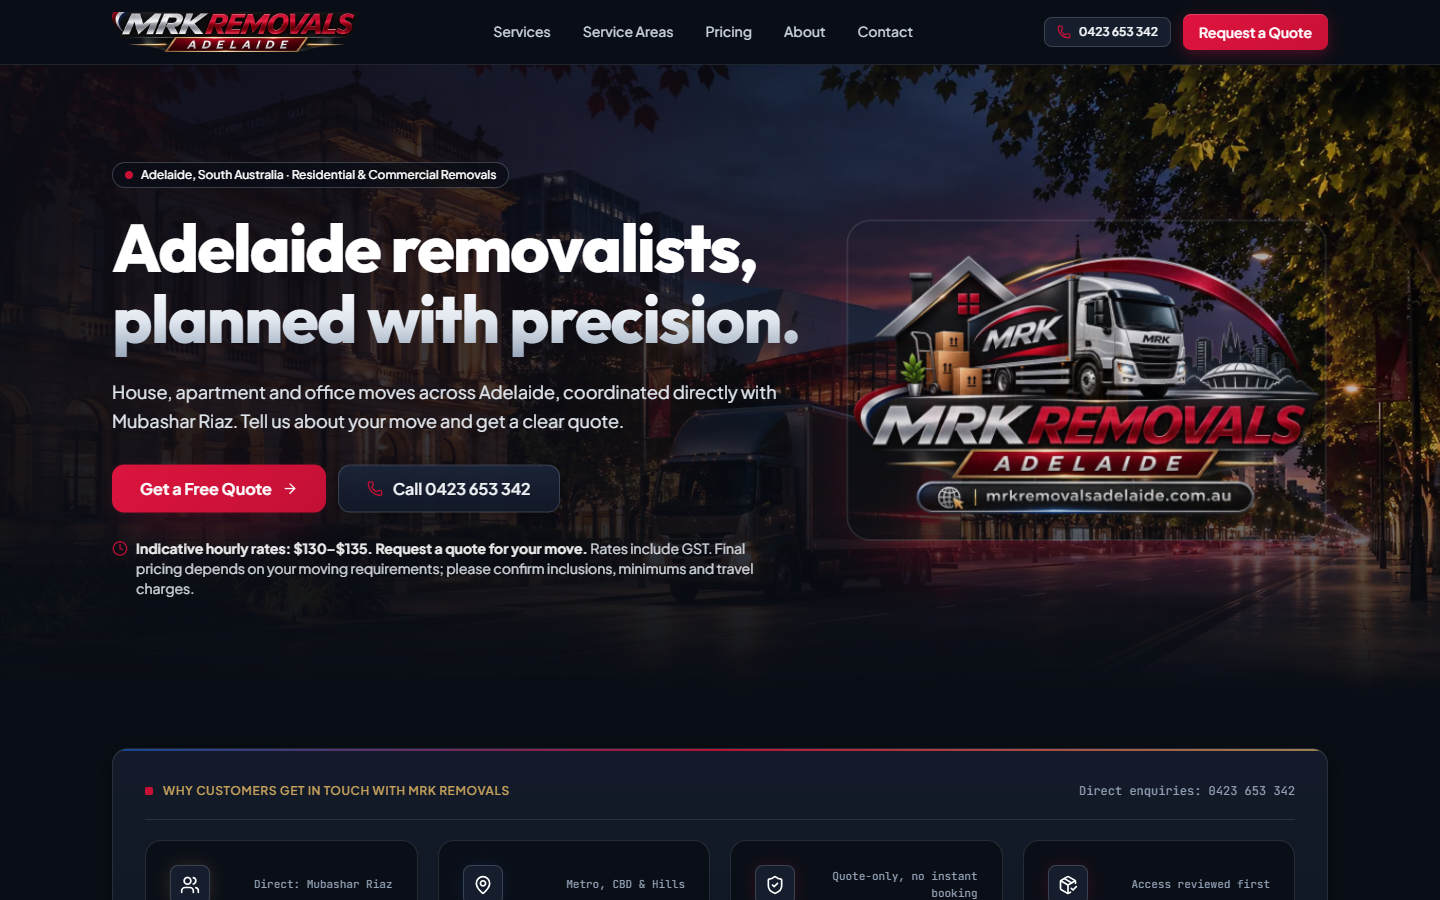
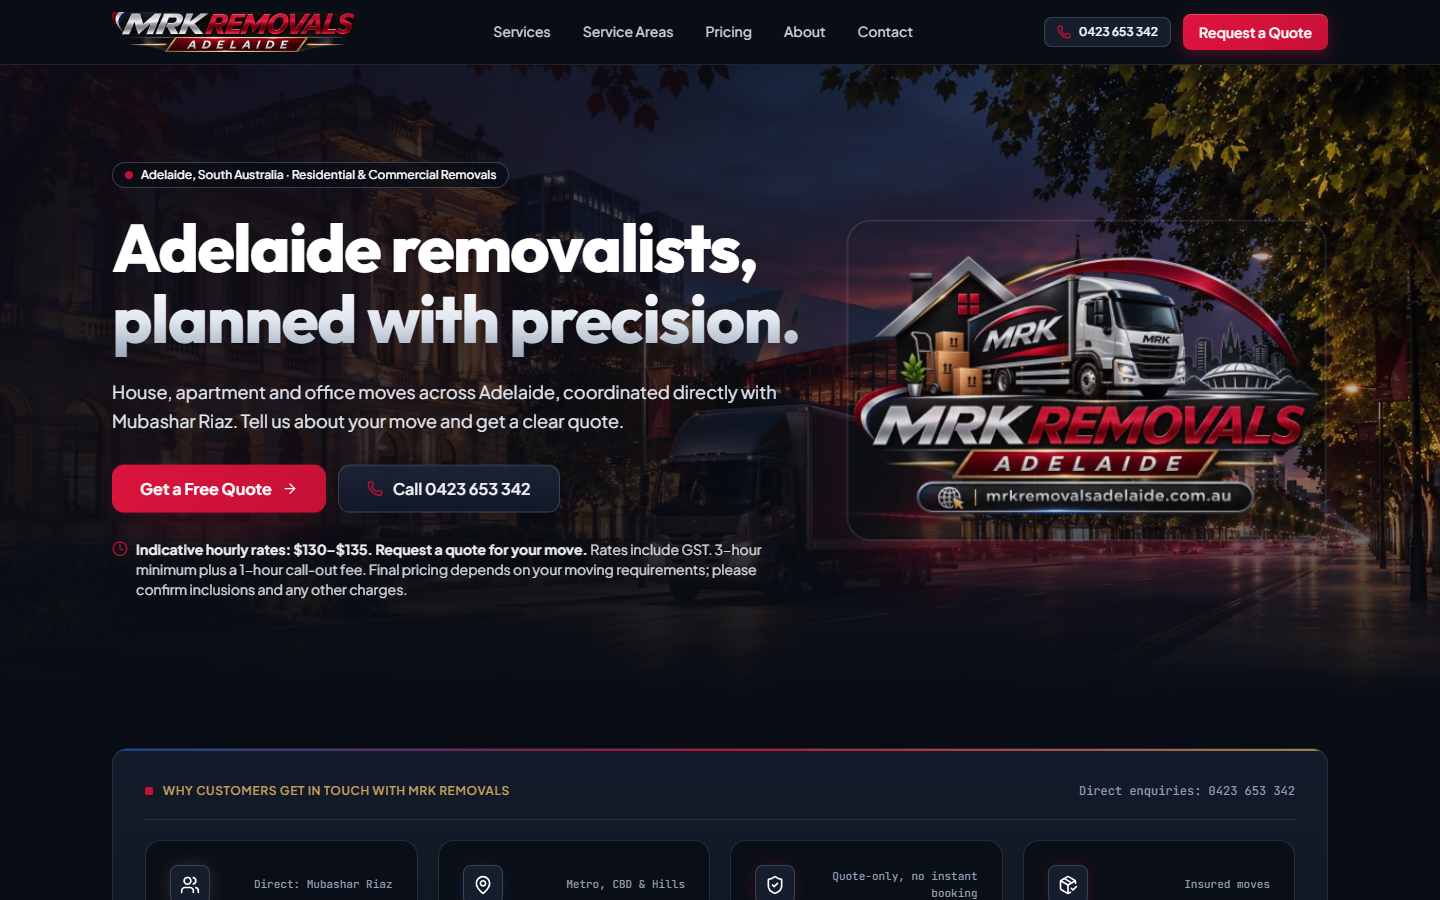
feat(content): publish 3-hour minimum, 1-hour call-out fee and \ insurance; remove image captions
Owner-confirmed terms replace the unconfirmed placeholders across disclaimer, FAQs, services, pricing, trust pillars and the quote brief. Insurance is published only as the coverage amount. Image captions removed.

Changed region(s): [[0.0938, 0.5911, 0.5312, 0.6844], [0.7812, 0.9644, 0.8438, 0.9956]]

diff --git a/src/pages/HomePage.tsx b/src/pages/HomePage.tsx
@@ -49,7 +49,7 @@ const PROCESS_STEPS = [
   {
     num: '03',
     title: 'Confirm scope & rate',
-    body: 'Inclusions, minimum hours and travel charges are confirmed in your quote. The hourly rate includes GST.',
+    body: 'Inclusions and any other charges are confirmed in your quote. The hourly rate includes GST, with a 3-hour minimum plus a 1-hour call-out fee.',
   },
   {
     num: '04',
@@ -88,7 +88,7 @@ export const HomePage: React.FC<HomePageProps> = ({ onNavigate }) => {
       <section className="relative isolate overflow-hidden" aria-labelledby="hero-heading">
         <ResponsiveImage
           src={mrkBusiness.photographyAssets.adelaideSkylineTwilight}
-          alt="Illustrative image of a moving truck on an Adelaide boulevard at dusk"
+          alt="MRK moving truck on an Adelaide boulevard at dusk"
           priority
           sizes="100vw"
           width={1914}
@@ -278,8 +278,8 @@ export const HomePage: React.FC<HomePageProps> = ({ onNavigate }) => {
               {[
                 'Truck size & crew numbers',
                 'What the hourly rate includes',
-                'Minimum booking hours',
-                'Travel / call-out charges',
+                '3-hour minimum booking',
+                '1-hour call-out fee',
                 'Rate includes GST',
                 'Stairs & heavy-item handling',
               ].map((item) => (
@@ -300,28 +300,22 @@ export const HomePage: React.FC<HomePageProps> = ({ onNavigate }) => {
             <figure className="mrk-photo-zoom col-span-2 relative rounded-2xl overflow-hidden border border-[#C9D2DC]/20">
               <ResponsiveImage
                 src={mrkBusiness.photographyAssets.professionalWrapping}
-                alt="Illustrative image of a crew wrapping furniture in moving blankets"
+                alt="Crew wrapping furniture in moving blankets"
                 sizes="(min-width: 1024px) 40vw, 100vw"
                 width={1448}
                 height={1086}
                 className="w-full h-52 sm:h-64 object-cover"
               />
-              <figcaption className="absolute bottom-0 inset-x-0 px-3 py-1.5 text-[11px] text-[#C9D2DC] bg-[#090D15]/80">
-                Illustrative image
-              </figcaption>
             </figure>
             <figure className="mrk-photo-zoom col-span-2 relative rounded-2xl overflow-hidden border border-[#C9D2DC]/20">
               <ResponsiveImage
                 src={mrkBusiness.photographyAssets.apartmentRelocation}
-                alt="Illustrative image of a mover carrying a blanket-wrapped armchair through an apartment lobby"
+                alt="Mover carrying a blanket-wrapped armchair through an apartment lobby"
                 sizes="(min-width: 1024px) 40vw, 100vw"
                 width={1086}
                 height={1448}
                 className="w-full h-52 sm:h-64 object-cover object-[50%_30%]"
               />
-              <figcaption className="absolute bottom-0 inset-x-0 px-3 py-1.5 text-[11px] text-[#C9D2DC] bg-[#090D15]/80">
-                Illustrative image
-              </figcaption>
             </figure>
           </div>
           <div className="lg:col-span-7 space-y-5">

diff --git a/src/content/services.ts b/src/content/services.ts
@@ -72,7 +72,7 @@ export const MRK_SERVICES: ServiceItem[] = [
     whatToConfirmWithUs: [
       'Exact pickup and delivery suburbs and whether settlement times constrain keys handover.',
       'Rough inventory of major furniture pieces (e.g., king beds, double-door fridges, outdoor spas or gym gear).',
-      'Applicable hourly rate ($130–$135/hr indicative range), crew allocation, minimum booking hours, and travel terms (rate includes GST).',
+      'Applicable hourly rate ($130–$135/hr indicative range), crew allocation, and the 3-hour minimum plus 1-hour call-out fee (rate includes GST).',
     ],
     adelaideLogisticsNote:
       'In established Adelaide suburbs with narrow heritage streets or timed school-zone clearways, early morning positioning helps keep truck loading smooth and uninterrupted.',
@@ -139,7 +139,7 @@ export const MRK_SERVICES: ServiceItem[] = [
     whatToConfirmWithUs: [
       'Exact lift booking start and finish times at both pickup and destination buildings.',
       'Maximum height clearance if the loading zone is covered or inside a podium level.',
-      'Hourly rate inclusions, minimum duration, and any parking/access requirements.',
+      'Hourly rate inclusions, the 3-hour minimum, and any parking/access requirements.',
     ],
     adelaideLogisticsNote:
       'Adelaide CBD streets (such as Waymouth, Pirie, Grote, and North Terrace precincts) often have ticketed loading zones or peak-hour bus lanes—confirming street kerbside rules ahead of time prevents delays.',
@@ -271,7 +271,7 @@ export const MRK_SERVICES: ServiceItem[] = [
     ],
     whatToConfirmWithUs: [
       'Exact list and rough measurements of each furniture piece or appliance.',
-      'Minimum booking hours and applicable hourly rate ($130–$135/hr indicative range) for small or single-item jobs.',
+      '3-hour minimum plus 1-hour call-out fee and applicable hourly rate ($130–$135/hr indicative range) for small or single-item jobs.',
       'Any fragile surfaces such as glass tabletops, stone slabs, or high-gloss cabinetry.',
     ],
     adelaideLogisticsNote:
@@ -280,7 +280,7 @@ export const MRK_SERVICES: ServiceItem[] = [
       {
         question: 'Is there a minimum booking time for moving just one or two items?',
         answer:
-          'Minimum hours and travel/call-out terms depend on your pickup and destination suburbs and scheduling window. Request a quote or call 0423 653 342 to confirm exact terms for your items.',
+          'A 3-hour minimum plus a 1-hour call-out fee applies, including for small or single-item jobs. Request a quote or call 0423 653 342 to confirm exact terms for your items.',
       },
       {
         question: 'Can you move a fridge upright?',

diff --git a/src/config/business.ts b/src/config/business.ts
@@ -33,8 +33,8 @@ export type MRKBusinessConfig = {
     unit: 'hour';
     gst: 'included';
     package: 'unconfirmed';
-    minimumHours: 'unconfirmed';
-    callOutFee: 'unconfirmed';
+    minimumHours: '3 hours';
+    callOutFee: '1 hour';
   }>;
   enquiryEmail: 'mkremovalsadelaide@gmail.com';
   enquiryEmailHref: 'mailto:mkremovalsadelaide@gmail.com';
@@ -96,19 +96,27 @@ export const mrkBusiness: MRKBusinessConfig = {
       unit: 'hour',
       gst: 'included',
       package: 'unconfirmed',
-      minimumHours: 'unconfirmed',
-      callOutFee: 'unconfirmed',
+      minimumHours: '3 hours',
+      callOutFee: '1 hour',
     },
     source: 'owner-brief',
     approvalStatus: 'supplied',
     publicationNote:
-      'Indicative hourly guidance. Owner confirmed the hourly rate includes GST. Truck size, crew allocation, minimum booking hours, and travel/access charges are confirmed per individual quote.',
+      'Indicative hourly guidance. Owner confirmed the hourly rate includes GST, with a 3-hour minimum and a 1-hour call-out fee. Truck size, crew allocation and any other charges are confirmed per individual quote.',
   },
   enquiryEmail: 'mkremovalsadelaide@gmail.com',
   enquiryEmailHref: 'mailto:mkremovalsadelaide@gmail.com',
   publicAddress: undefined,
   hours: undefined,
-  insurance: undefined,
+  insurance: {
+    value: {
+      wording: '$1 million insurance coverage',
+      restrictions: 'Policy type and terms not supplied; do not describe beyond the coverage amount.',
+    },
+    source: 'owner-brief',
+    approvalStatus: 'supplied',
+    publicationNote: 'Owner stated MRK holds 1M insurance coverage. Publish only as $1 million insurance coverage; do not name a policy type or insurer.',
+  },
   reviews: undefined,
   approvedServiceIds: [
     'house-removals',
@@ -160,7 +168,7 @@ export function formatIndicativeRateHeadline(): string {
 }
 
 export function getMandatoryRateDisclaimer(): string {
-  return 'Rates include GST. Final pricing depends on your moving requirements; please confirm inclusions, minimums and travel charges.';
+  return 'Rates include GST. 3-hour minimum plus a 1-hour call-out fee. Final pricing depends on your moving requirements; please confirm inclusions and any other charges.';
 }
 
 export type NavItem = {

diff --git a/src/config/business.test.ts b/src/config/business.test.ts
@@ -45,12 +45,17 @@ test('Indicative hourly rate preserves AUD $130-$135 range with GST included and
   assert.equal(rate.currency, 'AUD');
   assert.equal(rate.unit, 'hour');
   assert.equal(rate.gst, 'included');
+  assert.equal(rate.minimumHours, '3 hours');
+  assert.equal(rate.callOutFee, '1 hour');
   assert.equal(rate.package, 'unconfirmed');
   assert.equal(
     formatIndicativeRateHeadline(),
     'Indicative hourly rates: $130–$135. Request a quote for your move.'
   );
-  assert.ok(getMandatoryRateDisclaimer().includes('Rates include GST'));
+  assert.ok(getMandatoryRateDisclaimer().includes('Rates include GST')
+  );
+  assert.ok(
+    getMandatoryRateDisclaimer().includes('3-hour minimum plus a 1-hour call-out fee'));
 });
 
 test('Zero HF Removals or Noor Removals brand leakage across all content, config, and SEO outputs', () => {
@@ -131,7 +136,7 @@ test('TRUST_BANNER_ITEMS defines the 4 core confidence pillars with icons', () =
   assert.equal(TRUST_BANNER_ITEMS.length, 4);
   assert.deepEqual(
     TRUST_BANNER_ITEMS.map((item) => item.title),
-    ['Owner-Led Service', 'Adelaide Local', 'Transparent Quotes', 'Careful Handling']
+    ['Owner-Led Service', 'Adelaide Local', 'Transparent Quotes', '$1M Insurance Cover']
   );
   for (const item of TRUST_BANNER_ITEMS) {
     assert.ok(typeof item.Icon === 'function' || typeof item.Icon === 'object');
@@ -139,3 +144,13 @@ test('TRUST_BANNER_ITEMS defines the 4 core confidence pillars with icons', () =
   }
 });
 
+
+test('owner-confirmed terms are published consistently and image captions stay empty', async () => {
+  const fs = await import('node:fs');
+  const pages = ['src/pages/HomePage.tsx', 'src/pages/ServiceDetailPage.tsx', 'src/pages/PricingPage.tsx'];
+  for (const p of pages) {
+    assert.ok(!/illustrative/i.test(fs.readFileSync(p, 'utf-8')), `${p} must not label images as illustrative`);
+  }
+  assert.equal(mrkBusiness.insurance?.value.wording, '$1 million insurance coverage');
+  assert.ok(/3-hour minimum plus a 1-hour call-out fee/.test(getMandatoryRateDisclaimer()));
+});

diff --git a/src/content/faqs.ts b/src/content/faqs.ts
@@ -13,7 +13,7 @@ export const MRK_FAQS: FaqItem[] = [
     category: 'Pricing & Quotes',
     question: 'What are your hourly rates and what is included in the $130–$135/hr indicative range?',
     answer:
-      'Our owner-supplied indicative hourly rate range is AUD $130–$135 per hour. Because every move differs in volume, truck and crew requirements, stairs, and travel distance across Adelaide, final pricing depends on your specific moving requirements. When we respond to your quote request, we clearly confirm crew inclusions, minimum booking hours and travel/call-out charges before you lock in your move. The hourly rate includes GST.',
+      'Our owner-supplied indicative hourly rate range is AUD $130–$135 per hour. Because every move differs in volume, truck and crew requirements, stairs, and travel distance across Adelaide, final pricing depends on your specific moving requirements. When we respond to your quote request, we clearly confirm crew inclusions and any other charges before you lock in your move. The hourly rate includes GST, with a 3-hour minimum plus a 1-hour call-out fee.',
   },
   {
     id: 'how-to-get-accurate-quote',

diff --git a/src/components/brand/TrustBanner.tsx b/src/components/brand/TrustBanner.tsx
@@ -34,16 +34,16 @@ export const TRUST_BANNER_ITEMS: TrustPillar[] = [
     title: 'Transparent Quotes',
     subtitle: 'Quote-only, no instant booking',
     description:
-      'Indicative hourly rates (including GST) are shown up front. Inclusions, minimums and travel charges are confirmed in your quote before you commit.',
+      'Indicative hourly rates (including GST) are shown up front: 3-hour minimum plus a 1-hour call-out fee. Inclusions are confirmed in your quote before you commit.',
     Icon: ShieldCheck,
     accentColor: '#C81036',
   },
   {
-    id: 'careful-handling',
-    title: 'Careful Handling',
-    subtitle: 'Access reviewed first',
+    id: 'insured',
+    title: '$1M Insurance Cover',
+    subtitle: 'Insured moves',
     description:
-      'Stairs, lifts, parking distance and heavy items are reviewed with you before moving day so the plan fits your property.',
+      'MRK Removals Adelaide holds $1 million of insurance coverage. Stairs, lifts, parking and heavy items are also reviewed with you before moving day.',
     Icon: PackageCheck,
     accentColor: '#C81036',
   },

diff --git a/src/pages/PricingPage.tsx b/src/pages/PricingPage.tsx
@@ -110,11 +110,11 @@ export const PricingPage: React.FC<PricingPageProps> = ({ onNavigate }) => {
               </li>
               <li className="flex items-start gap-2">
                 <CheckCircle2 className="w-3.5 h-3.5 text-[#C81036] shrink-0 mt-0.5" />
-                <span>Minimum booking hours &amp; billing increments</span>
+                <span>3-hour minimum booking</span>
               </li>
               <li className="flex items-start gap-2">
                 <CheckCircle2 className="w-3.5 h-3.5 text-[#C81036] shrink-0 mt-0.5" />
-                <span>Travel / call-out time between depot, pickup, and drop-off</span>
+                <span>1-hour call-out fee</span>
               </li>
               <li className="flex items-start gap-2">
                 <CheckCircle2 className="w-3.5 h-3.5 text-[#C81036] shrink-0 mt-0.5" />

diff --git a/src/pages/ServiceDetailPage.tsx b/src/pages/ServiceDetailPage.tsx
@@ -78,10 +78,7 @@ export const ServiceDetailPage: React.FC<ServiceDetailPageProps> = ({ slug, onNa
               />
               <div className="absolute inset-0 bg-gradient-to-t from-[#090D15] via-[#090D15]/40 to-transparent" />
               <div className="absolute bottom-4 left-4 right-4 flex items-center justify-between text-xs text-white">
-                <span className="font-semibold flex items-center gap-2">
-                  <ShieldCheck className="w-4 h-4 text-[#C81036]" />
-                  Illustrative image
-                </span>
+                <span aria-hidden="true" />
                 <span className="font-mono text-[11px] text-[#C5A15C]">ADELAIDE SERVICE</span>
               </div>
             </div>

diff --git a/src/components/forms/QuoteForm.tsx b/src/components/forms/QuoteForm.tsx
@@ -272,8 +272,7 @@ export const QuoteForm: React.FC<QuoteFormProps> = ({
               Speak Directly with {mrkBusiness.ownerContactName.value}
             </h4>
             <p className="text-xs text-[#C9D2DC] leading-relaxed">
-              For fast confirmation of truck availability, crew size, minimum hours
-              and inclusions for your move between{' '}
+              For fast confirmation of truck availability, crew size, inclusions for your move between{' '}
               <strong className="text-white">{formData.pickupSuburb}</strong> and{' '}
               <strong className="text-white">{formData.destinationSuburb}</strong>, call directly:
             </p>

diff --git a/src/lib/seo.ts b/src/lib/seo.ts
@@ -286,7 +286,7 @@ export function resolveRouteSeo(
     return {
       title: 'Indicative Hourly Rates ($130–$135/hr) | MRK Removals Adelaide',
       description:
-        'Transparent indicative hourly rates ($130–$135/hr) and what affects your Adelaide moving quote. Rates include GST. Confirm inclusions, minimums and travel charges.',
+        'Transparent indicative hourly rates ($130–$135/hr) and what affects your Adelaide moving quote. Rates include GST, 3-hour minimum plus 1-hour call-out fee.',
       canonicalUrl: buildCanonicalUrl('/pricing'),
       robots,
       ogType: 'website',

diff --git a/src/lib/quote-validation.ts b/src/lib/quote-validation.ts
@@ -173,7 +173,7 @@ export function formatMoveBriefText(data: QuoteFormInput): string {
     data.inventoryNotes ? `Inventory & Notes: ${data.inventoryNotes}` : null,
     `----------------------------------------`,
     `Direct MRK Phone: 0423 653 342`,
-    `Indicative Rate Note: AUD $130–$135/hr (includes GST; subject to confirmation of inclusions, minimums & travel)`,
+    `Indicative Rate Note: AUD $130–$135/hr (includes GST; 3-hour minimum plus 1-hour call-out fee; inclusions confirmed in quote)`,
   ].filter(Boolean);
 
   return lines.join('\n');

diff --git a/docs/decisions/brand-facts.md b/docs/decisions/brand-facts.md
@@ -10,6 +10,6 @@
 | `phoneHref` | E.164 Telephone URI | `tel:+61423653342` | `owner-brief` | Owner-supplied | `approved` | Mandatory href for all click-to-call interactive elements. |
 | `domain` | Intended Domain | `mrkremovalsadelaide.com.au` | `owner-brief` | Pending DNS/host check | `supplied` | Canonical origin `https://mrkremovalsadelaide.com.au` configured in single constant. Keep preview `noindex` until domain cutover is authorized. |
 | `abn` | Owner-Supplied ABN | `95 685 822 473` | `owner-brief` | Checksum valid; ABR entity match unverified | `supplied` | Display as `ABN 95 685 822 473 (Owner-supplied)` without asserting independent ABR entity verification until confirmed. |
-| `indicativeHourlyAUD` | Hourly Rate Guidance | `AUD $130–$135 per hour` | `owner-brief` | Owner-supplied | `supplied` | Must always appear as **"Indicative hourly rates: $130–$135. Request a quote for your move."** paired with **"Rates include GST. Final pricing depends on your moving requirements; please confirm inclusions, minimums and travel charges."** (GST inclusion confirmed by owner) |
+| `indicativeHourlyAUD` | Hourly Rate Guidance | `AUD $130–$135 per hour` | `owner-brief` | Owner-supplied | `supplied` | Must always appear as **"Indicative hourly rates: $130–$135. Request a quote for your move."** paired with **"Rates include GST. Final pricing depends on your moving requirements; please confirm inclusions, minimums and travel charges."** (GST inclusion confirmed by owner). Owner also confirmed: **3-hour minimum plus a 1-hour call-out fee**, and **$1 million insurance coverage** (policy type/insurer not supplied; publish only the coverage amount). Image captions are intentionally empty. |
 | `creativeDirection` | Brand Aesthetic & Palette | Ruby Red (`#C81036`), Platinum Silver (`#C9D2DC`), Sapphire Blue (`#124FA3`), Midnight Black (`#090D15`), Champagne Gold (`#C5A15C` <= 5%) | `owner-brief` | Approved brief | `approved` | Enforced via `src/index.css` design tokens. Gold used strictly for subtle luxury hairline/kicker accents. |
 | `bookingMode` | Reservation Mode | `quote-only` | `owner-brief` | Active | `approved` | Live booking (`/book`) is disabled. All primary CTAs route to Quote Enquiry or Click-to-Call (`0423 653 342`). |
